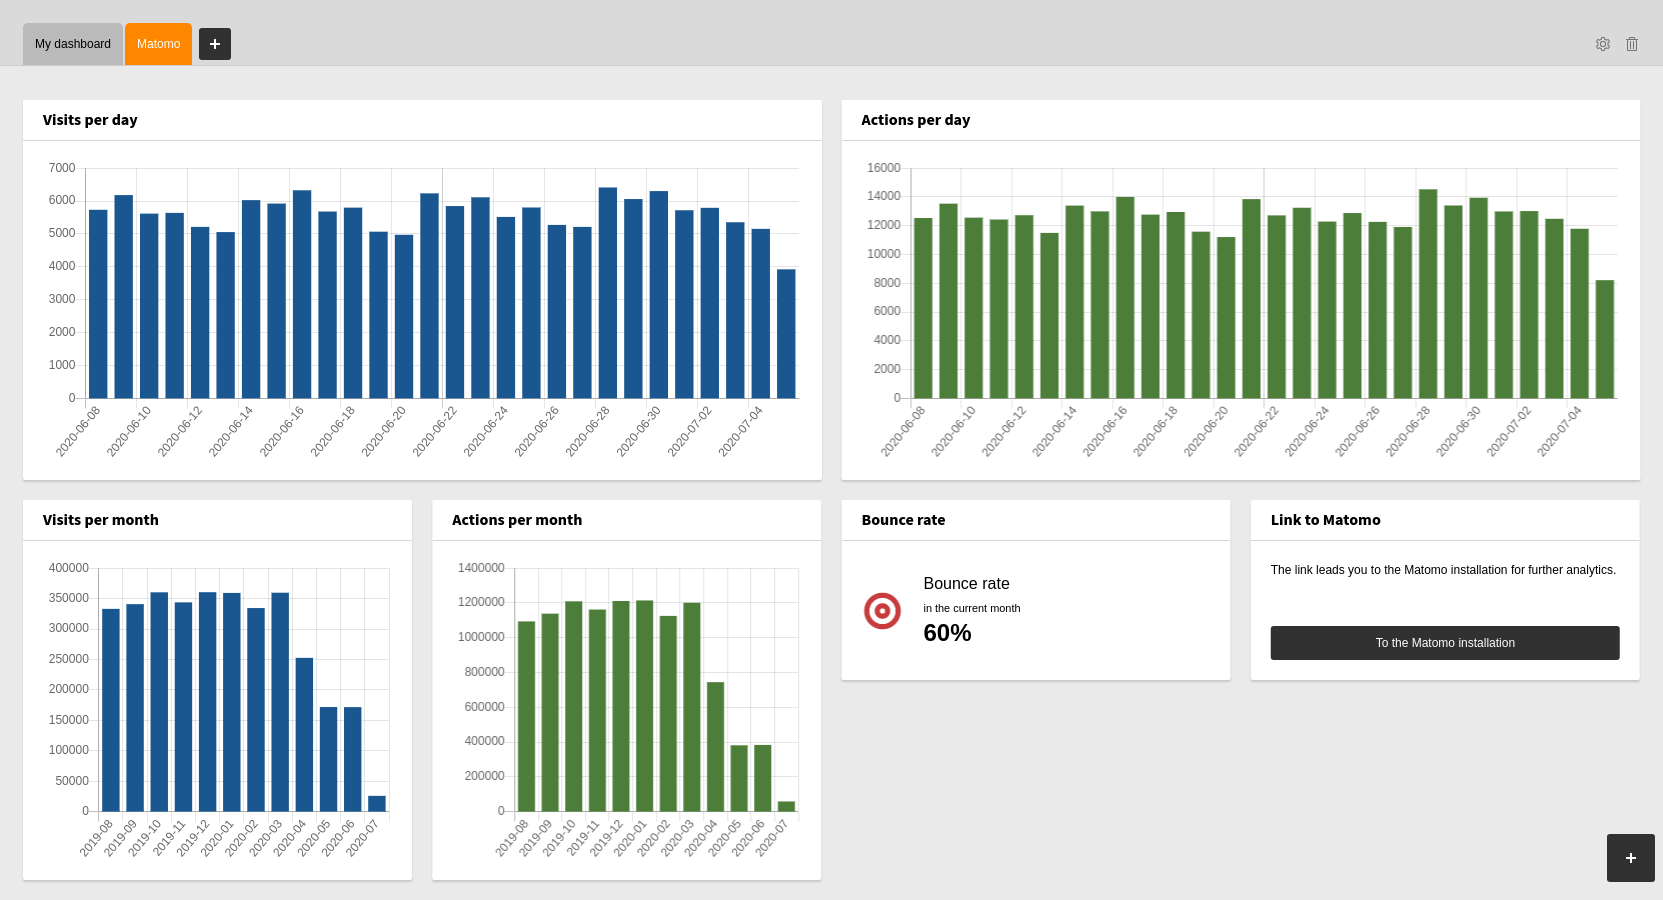
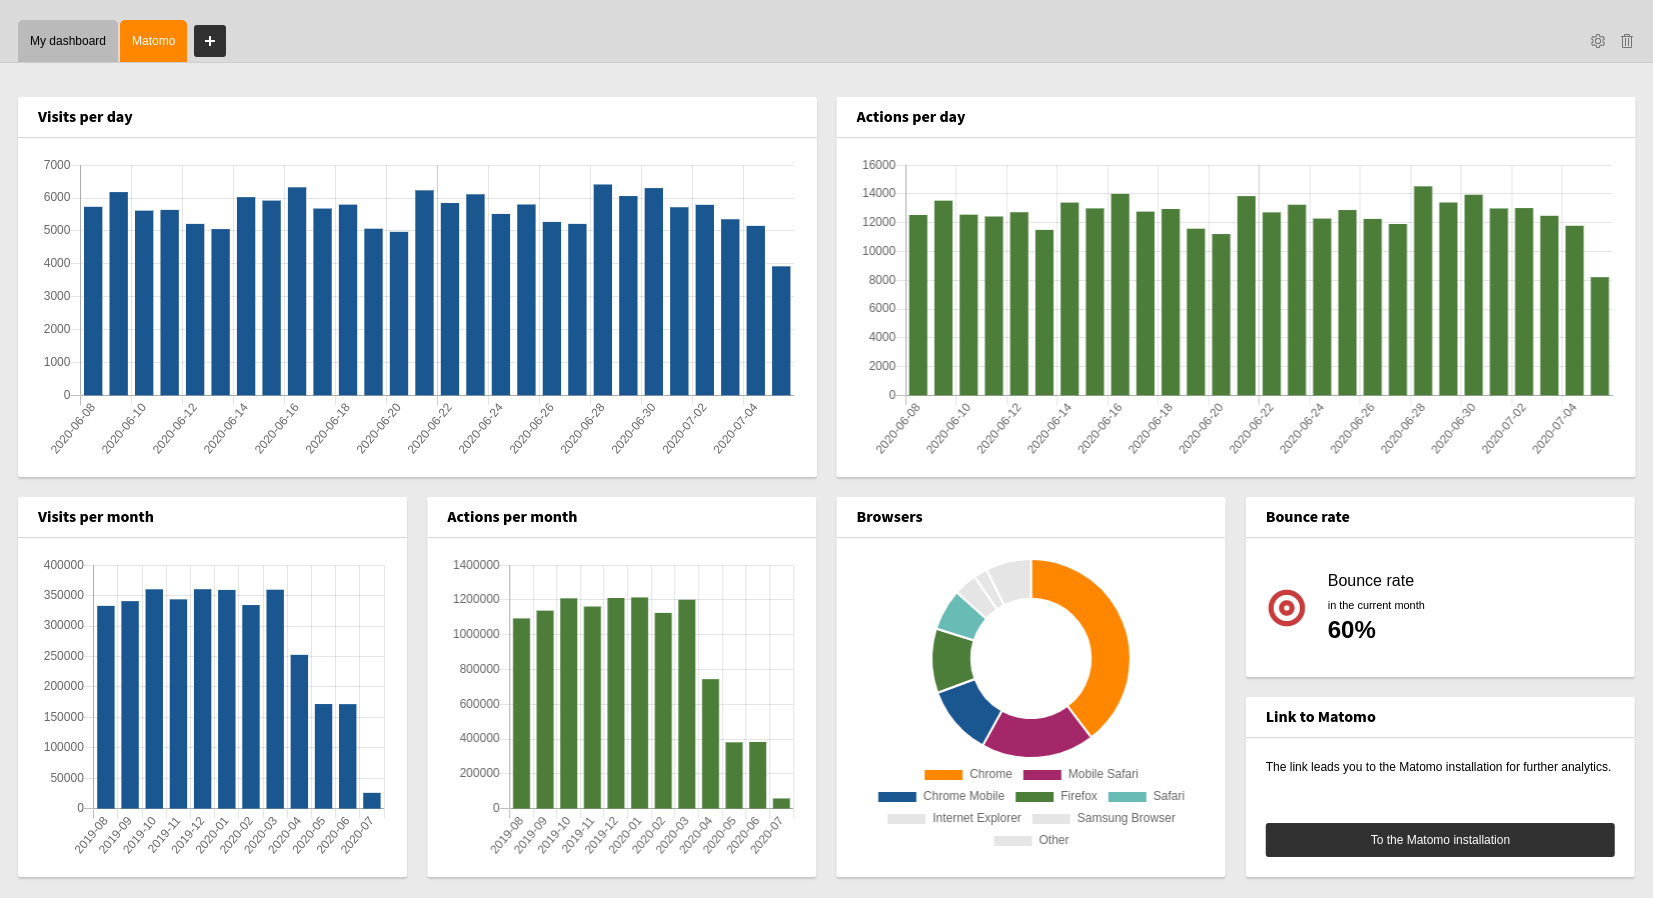
[FEATURE] Add browsers widget

diff --git a/Classes/Widgets/Provider/DevicesDetection/Browsers.php b/Classes/Widgets/Provider/DevicesDetection/Browsers.php
@@ -1,0 +1,99 @@
+<?php
+declare(strict_types=1);
+
+/*
+ * This file is part of the "matomo_widgets" extension for TYPO3 CMS.
+ *
+ * For the full copyright and license information, please read the
+ * LICENSE.txt file that was distributed with this source code.
+ */
+
+namespace Brotkrueml\MatomoWidgets\Widgets\Provider\DevicesDetection;
+
+use Brotkrueml\MatomoWidgets\Domain\Repository\DevicesDetectionRepository;
+use Brotkrueml\MatomoWidgets\Extension;
+use TYPO3\CMS\Core\Cache\Frontend\FrontendInterface;
+use TYPO3\CMS\Core\Localization\LanguageService;
+use TYPO3\CMS\Dashboard\WidgetApi;
+use TYPO3\CMS\Dashboard\Widgets\ChartDataProviderInterface;
+
+class Browsers implements ChartDataProviderInterface
+{
+    /** @var FrontendInterface */
+    private $cache;
+
+    /** @var LanguageService */
+    private $languageService;
+
+    /** @var DevicesDetectionRepository */
+    private $devicesDetectionRepository;
+
+    /** @var string */
+    private $period;
+
+    /** @var string */
+    private $date;
+
+    /** @var int */
+    private $maxItemsBeforeCombineOthers;
+
+    public function __construct(
+        FrontendInterface $cache,
+        LanguageService $languageService,
+        DevicesDetectionRepository $devicesDetectionRepository,
+        string $period,
+        string $date,
+        int $maxItemsBeforeCombineOthers
+    ) {
+        $this->cache = $cache;
+        $this->languageService = $languageService;
+        $this->devicesDetectionRepository = $devicesDetectionRepository;
+        $this->period = $period;
+        $this->date = $date;
+        $this->maxItemsBeforeCombineOthers = $maxItemsBeforeCombineOthers;
+    }
+
+    public function getChartData(): array
+    {
+        $cacheIdentifier = 'DevicesDetectionBrowsers';
+        $chartData = $this->cache->get($cacheIdentifier);
+        if (false === $chartData) {
+            $browsers = $this->getBrowsers();
+            $chartData = [
+                'labels' => \array_keys($browsers),
+                'datasets' => [
+                    [
+                        'backgroundColor' => WidgetApi::getDefaultChartColors(),
+                        'data' => \array_values($browsers),
+                    ],
+                ],
+            ];
+
+            $this->cache->set($cacheIdentifier, $chartData);
+        }
+
+        return $chartData;
+    }
+
+    private function getBrowsers(): array
+    {
+        $data = $this->devicesDetectionRepository->getBrowsers($this->period, $this->date);
+
+        $browsers = [];
+        $otherBrowsers = 0;
+        foreach ($data as $browser) {
+            if (\count($browsers) < $this->maxItemsBeforeCombineOthers) {
+                $browsers[$browser['label']] = $browser['nb_visits'];
+                continue;
+            }
+
+            $otherBrowsers += $browser['nb_visits'];
+        }
+
+        if ($otherBrowsers) {
+            $browsers[$this->languageService->sL(Extension::LANGUAGE_PATH_DASHBOARD . ':widgets.devicesDetection.browsers.other')] = $otherBrowsers;
+        }
+
+        return $browsers;
+    }
+}

diff --git a/Classes/Domain/Repository/DevicesDetectionRepository.php b/Classes/Domain/Repository/DevicesDetectionRepository.php
@@ -1,0 +1,42 @@
+<?php
+declare(strict_types=1);
+
+/*
+ * This file is part of the "matomo_widgets" extension for TYPO3 CMS.
+ *
+ * For the full copyright and license information, please read the
+ * LICENSE.txt file that was distributed with this source code.
+ */
+
+namespace Brotkrueml\MatomoWidgets\Domain\Repository;
+
+use Brotkrueml\MatomoWidgets\Connection\MatomoConnector;
+
+/**
+ * Get metrics for the DevicesDetection module.
+ * The method names correspond to the DevicesDetection API methods.
+ *
+ * @see https://developer.matomo.org/api-reference/reporting-api#DevicesDetection
+ */
+class DevicesDetectionRepository
+{
+    /** @var MatomoConnector */
+    private $matomoConnector;
+
+    public function __construct(MatomoConnector $matomoConnector)
+    {
+        $this->matomoConnector = $matomoConnector;
+    }
+
+    public function getBrowsers(string $period, string $date): array
+    {
+        $parameters = [
+            'period' => $period,
+            'date' => $date,
+            'filter_sort_column' => 'nb_uniq_visitors',
+            'filter_sort_order' => 'desc',
+        ];
+
+        return $this->matomoConnector->callApi('DevicesDetection.getBrowsers', $parameters);
+    }
+}

diff --git a/Documentation/Widgets/Index.rst b/Documentation/Widgets/Index.rst
@@ -82,6 +82,17 @@ The bounce rate for the current month shows this widget:
    Widget *Bounce rate*
 
 
+Browsers
+========
+
+The browser share for the current month shows this widget:
+
+.. figure:: ../Images/WidgetBrowsers.png
+   :alt: Widget Browsers
+
+   Widget *Browsers*
+
+
 Link to Matomo
 ==============
 
